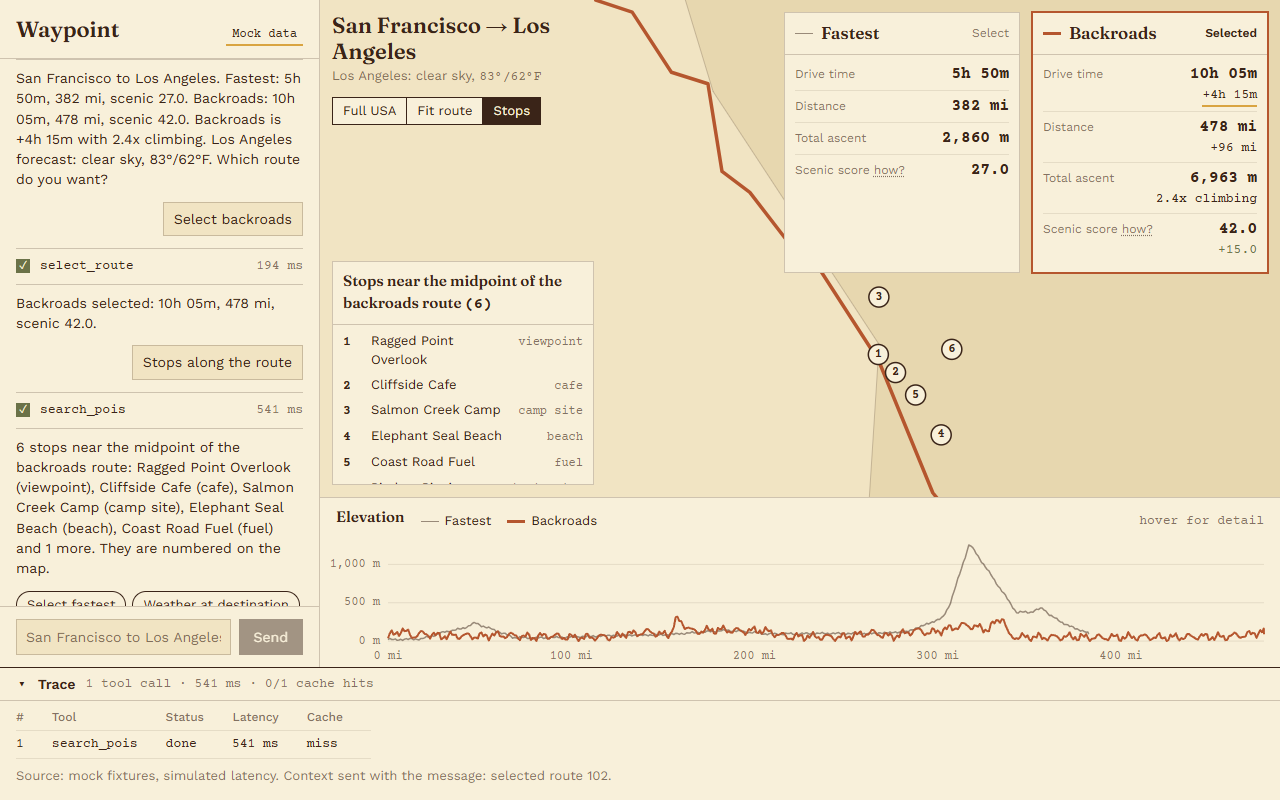
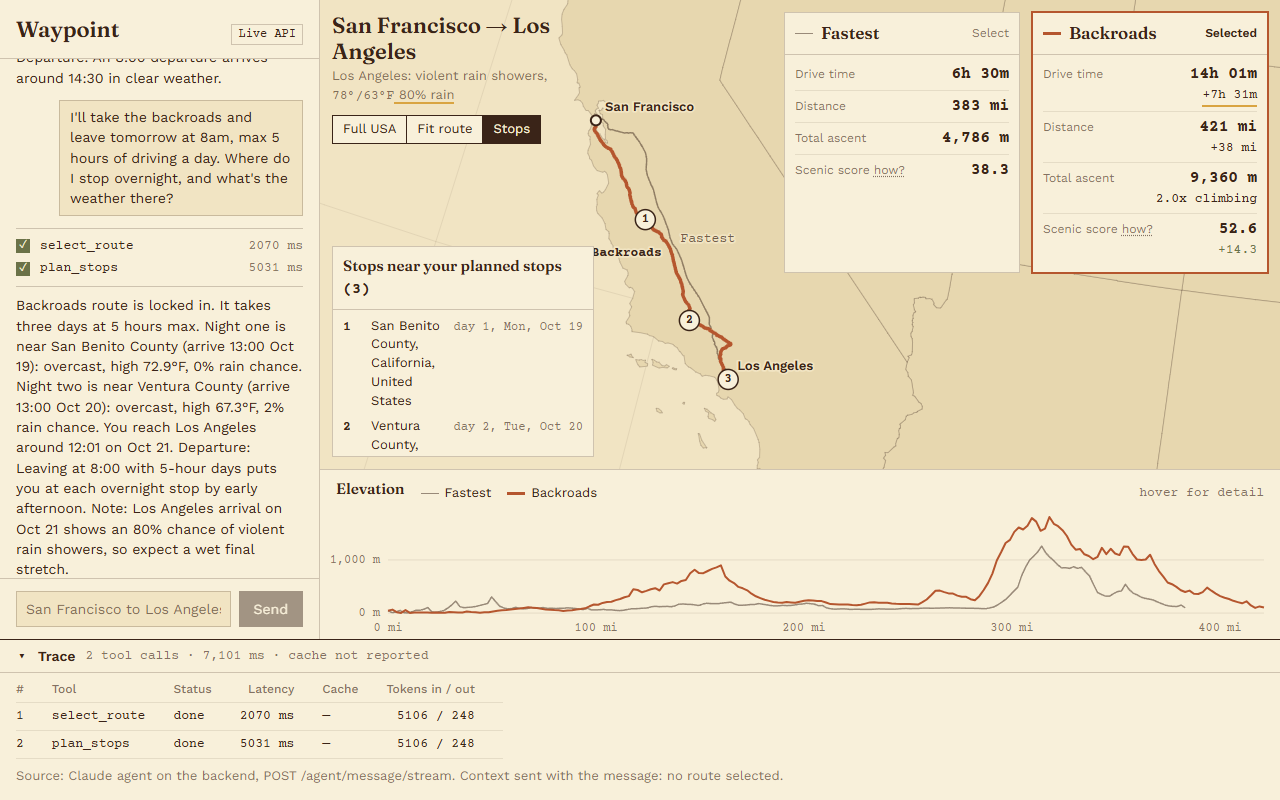
Routes: parallel ORS requests, configurable timeout, 502/504 instead of 500; live README screenshots

diff --git a/Backend/tests/test_routing.py b/Backend/tests/test_routing.py
@@ -1,0 +1,78 @@
+"""Route generation when OpenRouteService is slow or failing, with ORS stubbed."""
+
+import time
+from types import SimpleNamespace
+from urllib import error
+
+import pytest
+from fastapi.testclient import TestClient
+from geoalchemy2.shape import from_shape
+from shapely.geometry import Point
+
+from app.agent.tools import generate_route as generate_route_tool
+from app.api.v1.endpoints import routes as routes_endpoint
+from app.core.db import get_db
+from app.main import app
+from app.services import routing_service
+from app.services.routing_service import RoutingError
+
+
+def fake_route(preference):
+    return {"distance_miles": 1.0, "duration_seconds": 60, "duration_hms": "0h 1m", "ascent_m": 0,
+            "descent_m": 0, "geometry": [], "extras": {}, "preference": preference}
+
+
+def test_both_routes_are_requested_in_parallel(monkeypatch):
+    def slow_route(*args, preference="fastest", avoid_features=None):
+        time.sleep(0.4)
+        return fake_route(preference)
+
+    monkeypatch.setattr(routing_service, "get_single_route", slow_route)
+    started = time.perf_counter()
+    options = routing_service.get_route_options(0, 0, 1, 1)
+    assert time.perf_counter() - started < 0.7  # one wait, not two
+    assert options["fastest"]["preference"] == "fastest"
+    assert options["backroads"]["preference"] == "shortest"
+
+
+@pytest.mark.parametrize("raised, timed_out", [
+    (TimeoutError("The read operation timed out"), True),
+    (error.URLError(TimeoutError("timed out")), True),
+    (error.URLError(ConnectionRefusedError("refused")), False),
+    (error.HTTPError("https://ors", 503, "Service Unavailable", {}, None), False),
+])
+def test_ors_failures_become_routing_errors(monkeypatch, raised, timed_out):
+    def failing_urlopen(*args, **kwargs):
+        raise raised
+
+    monkeypatch.setattr(routing_service.request, "urlopen", failing_urlopen)
+    with pytest.raises(RoutingError) as caught:
+        routing_service.get_single_route(0, 0, 1, 1)
+    assert caught.value.timed_out is timed_out
+
+
+@pytest.fixture
+def client_with_trip():
+    trip = SimpleNamespace(origin_point=from_shape(Point(-122.4, 37.8), srid=4326),
+                           destination_point=from_shape(Point(-118.2, 34.1), srid=4326))
+    query = SimpleNamespace(filter=lambda *a: SimpleNamespace(first=lambda: trip))
+    app.dependency_overrides[get_db] = lambda: SimpleNamespace(query=lambda *a: query)
+    yield TestClient(app)
+    app.dependency_overrides.pop(get_db, None)
+
+
+@pytest.mark.parametrize("timed_out, status", [(True, 504), (False, 502)])
+def test_endpoint_reports_ors_failure_as_upstream_error(monkeypatch, client_with_trip, timed_out, status):
+    def failing_options(*args):
+        raise RoutingError("OpenRouteService did not answer within 90 s", timed_out=timed_out)
+
+    monkeypatch.setattr(routes_endpoint, "get_route_options", failing_options)
+    r = client_with_trip.post("/routes/generate/1")
+    assert r.status_code == status
+    assert r.json()["detail"] == "OpenRouteService did not answer within 90 s"
+
+
+def test_agent_tool_returns_the_reason_instead_of_raising(monkeypatch):
+    response = SimpleNamespace(status_code=504, text="", json=lambda: {"detail": "OpenRouteService did not answer"})
+    monkeypatch.setattr(generate_route_tool.requests, "post", lambda *a, **k: response)
+    assert generate_route_tool.generate_routes(1) == {"error": "OpenRouteService did not answer"}

diff --git a/Backend/app/services/routing_service.py b/Backend/app/services/routing_service.py
@@ -1,6 +1,7 @@
 # app/services/routing_service.py
 
 import json
+from concurrent.futures import ThreadPoolExecutor
 from urllib import request, error
 from app.core.config import settings
 
@@ -11,6 +12,14 @@ HEADERS = {
     "Content-Type": "application/json",
     "Accept": "application/geo+json, application/json",
 }
+
+class RoutingError(Exception):
+    """ORS could not give a route: it timed out, was unreachable, or answered with an HTTP error."""
+
+    def __init__(self, message: str, timed_out: bool = False):
+        super().__init__(message)
+        self.timed_out = timed_out
+
 
 def format_duration(seconds: int) -> str:
     h = int(seconds // 3600)
@@ -33,14 +42,20 @@ def get_single_route(start_lon: float, start_lat: float, end_lon: float, end_lat
         
     req = request.Request(URL, data=json.dumps(body).encode("utf-8"), headers=HEADERS, method="POST")
 
+    timeout = settings.ors_route_timeout_s
     try:
-        with request.urlopen(req, timeout=30) as resp:
+        with request.urlopen(req, timeout=timeout) as resp:
             data = json.loads(resp.read().decode("utf-8"))
     except error.HTTPError as e:
-        print(f"HTTP {e.code} {e.reason}")
-        print(e.read().decode("utf-8", errors="replace")[:1000])
-        raise 
-        
+        body = e.read().decode("utf-8", errors="replace")[:300]
+        raise RoutingError(f"OpenRouteService answered HTTP {e.code} for the {preference} route: {body}") from e
+    except TimeoutError as e:
+        raise RoutingError(f"OpenRouteService did not answer within {timeout:g} s", timed_out=True) from e
+    except error.URLError as e:
+        if isinstance(e.reason, TimeoutError):
+            raise RoutingError(f"OpenRouteService did not answer within {timeout:g} s", timed_out=True) from e
+        raise RoutingError(f"OpenRouteService is unreachable: {e.reason}") from e
+
     route = data["features"][0]
     props = route["properties"]
     segment = props["segments"][0]
@@ -57,19 +72,16 @@ def get_single_route(start_lon: float, start_lat: float, end_lon: float, end_lat
 
 def get_route_options(start_lon: float, start_lat: float, end_lon: float, end_lat: float) -> dict:
     """
-    Generates multiple route candidates (e.g., fastest, backroads).
+    Generates the fastest and backroads candidates. The two ORS requests run in
+    parallel, so a slow ORS costs one timeout, not two. Raises RoutingError.
     """
-    return {
-        "fastest": get_single_route(
-            start_lon, start_lat, end_lon, end_lat, 
-            preference="fastest"
-        ),
-        "backroads": get_single_route(
-            start_lon, start_lat, end_lon, end_lat,
-            preference="shortest",
-            avoid_features=["highways"],
-        ),
-    }
+    with ThreadPoolExecutor(max_workers=2) as pool:
+        fastest = pool.submit(get_single_route, start_lon, start_lat, end_lon, end_lat, preference="fastest")
+        backroads = pool.submit(
+            get_single_route, start_lon, start_lat, end_lon, end_lat,
+            preference="shortest", avoid_features=["highways"],
+        )
+        return {"fastest": fastest.result(), "backroads": backroads.result()}
 
 # Protect your testing code so it doesn't run when imported by FastAPI
 if __name__ == "__main__":

diff --git a/Backend/app/core/config.py b/Backend/app/core/config.py
@@ -20,13 +20,16 @@ class Settings(BaseSettings):
     eval_judge_model: str = Field(default="claude-haiku-5-5", validation_alias="EVAL_JUDGE_MODEL")
     # The agent's tools call this API over HTTP
     api_base_url: str = Field(default="http://localhost:8000", validation_alias="API_BASE_URL")
+    # Seconds to wait for one OpenRouteService directions request; long drives can take a minute when ORS is busy
+    ors_route_timeout_s: float = Field(default=90.0, validation_alias="ORS_ROUTE_TIMEOUT_S")
 
     # Browser origins allowed by CORS, comma-separated: the Vite dev server plus
     # the deployed frontend, e.g. "http://localhost:5173,https://waypoint.example.com"
     cors_origins: str = Field(default="http://localhost:5173", validation_alias="CORS_ORIGINS")
 
     # POST /agent/message
-    agent_timeout_s: float = Field(default=120.0, validation_alias="AGENT_TIMEOUT_S")
+    # Covers a slow route generation (ORS_ROUTE_TIMEOUT_S) plus the other tool and model calls of a turn
+    agent_timeout_s: float = Field(default=180.0, validation_alias="AGENT_TIMEOUT_S")
     agent_rate_limit_per_minute: int = Field(default=10, validation_alias="AGENT_RATE_LIMIT_PER_MINUTE")
     agent_session_ttl_s: int = Field(default=3600, validation_alias="AGENT_SESSION_TTL_S")
     # User turns kept per session; older turns are dropped from the front

diff --git a/Backend/app/api/v1/endpoints/routes.py b/Backend/app/api/v1/endpoints/routes.py
@@ -3,7 +3,7 @@ from sqlalchemy.orm import Session
 from geoalchemy2.shape import to_shape # ADDED: to convert PostGIS binary to Python
 from app.core.db import get_db
 from app.models.trip import Trip
-from app.services.routing_service import get_route_options
+from app.services.routing_service import RoutingError, get_route_options
 from app.services.scoring_service import score_route_options
 from app.services.db_route_service import save_routes_to_db
 from app.models.route import Route
@@ -47,7 +47,11 @@ def generate_and_save_routes(
     end_lon, end_lat = destination_shape.x, destination_shape.y
 
     # 3. Pass the extracted coordinates to your services
-    raw_routes = get_route_options(start_lon, start_lat, end_lon, end_lat)
+    # The route service failing is an upstream problem, not ours: 504 when it timed out, else 502
+    try:
+        raw_routes = get_route_options(start_lon, start_lat, end_lon, end_lat)
+    except RoutingError as e:
+        raise HTTPException(status_code=504 if e.timed_out else 502, detail=str(e))
     scored_routes = score_route_options(raw_routes)
     db_routes = save_routes_to_db(db, trip_id, scored_routes)
 

diff --git a/Backend/app/agent/tools/generate_route.py b/Backend/app/agent/tools/generate_route.py
@@ -1,6 +1,7 @@
 import requests
 
 from app.agent.tools.geocode_location import BASE_URL
+from app.core.config import settings
 
 
 def generate_routes(trip_id: int, force: bool = False) -> dict:
@@ -11,8 +12,12 @@ def generate_routes(trip_id: int, force: bool = False) -> dict:
     response = requests.post(
         f"{BASE_URL}/routes/generate/{trip_id}",
         params={"reuse_existing": "false" if force else "true"},
-        timeout=75,
+        # outlast the backend's own ORS timeout, so the backend's 504 arrives instead of a client timeout
+        timeout=settings.ors_route_timeout_s + 30,
     )
+    if response.status_code in (502, 504):
+        # the route service failed; give the model the reason rather than a bare HTTP error
+        return {"error": response.json().get("detail", response.text)}
     response.raise_for_status()
     return response.json()
 

diff --git a/README.md b/README.md
@@ -4,7 +4,7 @@ AI road-trip planner: a Claude tool-calling agent plans routes, overnight stops 
 
 Ask for a drive ("San Francisco to Los Angeles, I'll take the backroads and leave tomorrow at 8am") and the agent geocodes both ends, generates a fastest and a backroads route, splits the drive into days, checks the weather at each stop **on the day you'll be there**, and finds places to stop. Every number it tells you comes from a tool result, and the app shows each tool call as it runs.
 
-![Fastest and backroads routes from San Francisco to Los Angeles, compared side by side](docs/screenshots/01-routes-compared.png)
+![Fastest and backroads routes from San Francisco to Los Angeles, compared side by side with their elevation profiles](docs/screenshots/02-routes-compared.png)
 
 ## Contents
 
@@ -32,22 +32,22 @@ Ask for a drive ("San Francisco to Los Angeles, I'll take the backroads and leav
 
 ## Screenshots
 
-These were captured on 2026-10-18 from the current build in mock mode (fixture data; the agent's replies are scripted in mock mode), except the last one, which is the live agent.
+One live conversation, captured on 2026-10-18: the real agent (Claude Sonnet 5.5) on the real backend, with routes from OpenRouteService and forecasts from Open-Meteo. The "Live API" badge marks live mode; mock mode shows "Mock data".
 
-**Routes compared.** Fastest vs backroads, with the deltas that matter: +4h 15m, 2.4x the climbing, scenic 27 vs 42.
-![Route comparison](docs/screenshots/01-routes-compared.png)
+**1. The agent at work.** Each tool call appears as it starts and gets a tick and its latency when it finishes.
+![The agent geocoding both ends and saving the trip](docs/screenshots/01-agent-working.png)
 
-**Backroads selected, elevation profile.** Hovering the profile moves a marker along the route on the map.
-![Backroads route with elevation profile](docs/screenshots/02-backroads-elevation.png)
+**2. Routes compared.** "San Francisco to Los Angeles": the fastest route is 383 mi in 6h 30m; the backroads route adds 7h 31m and twice the climbing, for a scenic score of 52.6 against 38.3. Hovering the elevation profile moves a marker along both routes on the map.
+![Fastest and backroads routes with elevation profiles](docs/screenshots/02-routes-compared.png)
 
-**Stops along the route.** Points of interest near the midpoint of the selected route, numbered on the map.
-![Stops along the backroads route](docs/screenshots/03-stops-along-route.png)
+**3. Overnight stops with arrival-day weather.** "I'll take the backroads and leave tomorrow at 8am, max 5 hours of driving a day." The agent selects the backroads route and splits it into three days. Each night's forecast is for the date you get there, and it warns about an 80% chance of rain on arrival in Los Angeles.
+![Three-day backroads plan with overnight stops](docs/screenshots/03-overnight-stops.png)
 
-**Tool trace.** Every call the agent made for the last message, with status, latency and cache result.
+**4. Tool trace.** The calls behind the last reply, with status, latency and the model tokens for each.
 ![Tool trace drawer](docs/screenshots/04-tool-trace.png)
 
-**Live agent when a service fails.** On 2026-10-18 OpenRouteService was timing out. The agent, running for real, reported the failure and asked to retry instead of inventing a route. The map shows the two geocoded endpoints and nothing more.
-![Live agent reporting a route service failure](docs/screenshots/05-live-agent-route-service-down.png)
+**5. Honest when the data is thin.** "Find somewhere to eat near the first overnight stop." The point-of-interest search found only two campsites, and the agent says so instead of naming a restaurant from memory.
+![Point-of-interest search near the first overnight stop](docs/screenshots/05-poi-search.png)
 
 ## How it works
 
@@ -141,11 +141,11 @@ Results on 2026-10-18:
 
 | Check | Command | Result |
 |---|---|---|
-| Backend unit and API tests | `pytest` | 94 passed in 8.5 s |
+| Backend unit and API tests | `pytest` | 102 passed in 10.8 s |
 | Python lint | `ruff check .` | All checks passed |
 | Frontend types | `npm run typecheck` | 0 errors |
 
-The tests cover the agent HTTP API (sessions, rate limits, timeouts, streaming, error shapes) with the model stubbed out, every eval check on synthetic sessions, the scenic score, stop planning, trip matching and arrival-date weather across time zones. They make no network calls, but the app reads its settings at import time, so a `Backend/.env` must exist (copying `.env.example` is enough).
+The tests cover the agent HTTP API (sessions, rate limits, timeouts, streaming, error shapes) with the model stubbed out, every eval check on synthetic sessions, the scenic score, stop planning, trip matching, arrival-date weather across time zones, and route generation when OpenRouteService is slow or failing. They make no network calls, but the app reads its settings at import time, so a `Backend/.env` must exist (copying `.env.example` is enough).
 
 ## Getting started
 
@@ -239,7 +239,7 @@ docs/screenshots/ the images in this README
 
 ## Known limitations
 
-- **OpenRouteService timeouts.** Route requests time out after 30 s, and a timeout surfaces as an HTTP 500. The fastest and backroads requests run one after the other. On a slow ORS day (2026-10-18: 76 s and 109 s) route generation fails; the agent reports it rather than guessing.
+- **OpenRouteService speed.** Route generation depends on ORS, which can be slow: on 2026-10-18 a single SF to LA request took between 10 s and over 100 s. Both routes are requested in parallel and each may take up to `ORS_ROUTE_TIMEOUT_S` (90 s). Past that, the endpoint returns 504, or 502 for an ORS error, and the agent tells the user to retry. There is no automatic retry yet.
 - **Sessions are in memory.** They are lost on restart, and with several worker processes each worker has its own. Run one worker for now.
 - **No database in docker-compose.** `Backend/docker-compose.yml` starts only Redis; Postgres/PostGIS must be installed separately.
 - **Stop planning assumes a uniform pace** along the route and uses the origin's time zone for the whole trip.
@@ -250,12 +250,12 @@ docs/screenshots/ the images in this README
 
 Planned work, roughly in order:
 
-- [ ] Handle ORS timeouts as a clear 502/504 with a retry, and request both routes in parallel
+- [x] Handle ORS timeouts as a clear 502/504 and request both routes in parallel
+- [ ] Retry ORS with backoff, and show the failed tool call as failed in the chat checklist (today a handled ORS failure is listed as done, with the reason in the reply)
 - [ ] Postgres/PostGIS in `docker-compose.yml` so the whole stack starts with one command
 - [ ] Redis-backed agent sessions behind the existing `SessionStore` interface, for multiple workers
 - [ ] CI on every push: `pytest`, `ruff` and `npm run typecheck`
 - [ ] Repeat eval runs, including against an empty database, to exercise fresh route generation and measure variance
-- [ ] Live-mode screenshots in this README once ORS is responsive
 - [ ] Stop planning with real per-segment pace and time-zone changes along the route
 - [ ] Deployment: a hosted backend and frontend
 
